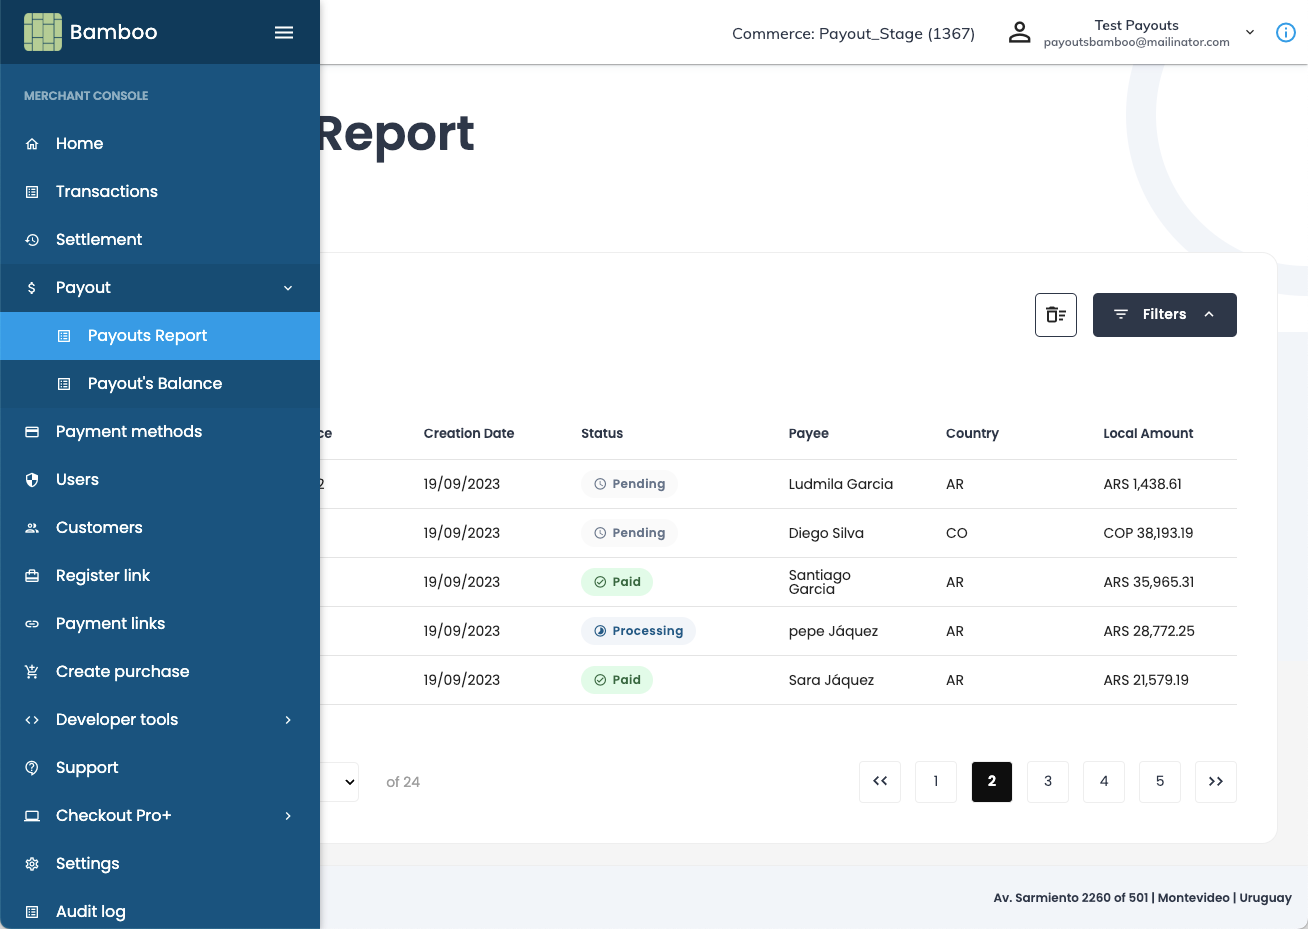
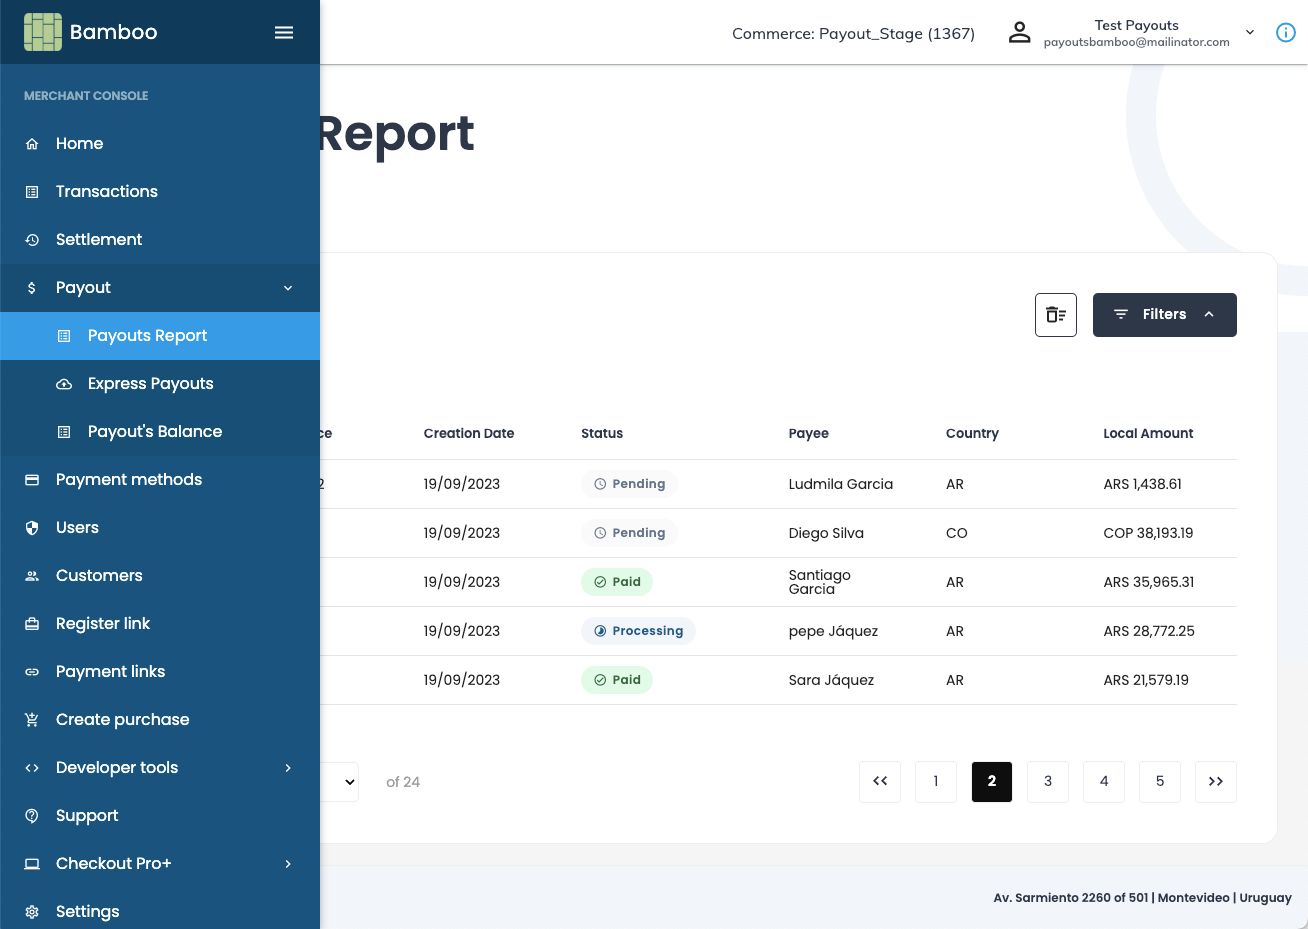
Express Payouts feature

diff --git a/themes/docsy/static/js/scrollspy.js b/themes/docsy/static/js/scrollspy.js
@@ -16,7 +16,11 @@ function createObserver() {
             if (entry.intersectionRatio > 0) {
                 document.querySelector(`nav li a[href="#${id}"]`).classList.add('activeToc');
             } else {
-                document.querySelector(`nav li a[href="#${id}"]`).classList.remove('activeToc');
+                if (document.querySelector(`nav li a[href="#${id}"]`) !== null) {
+                    document.querySelector(`nav li a[href="#${id}"]`).classList.remove('activeToc');
+                } else {
+                    true;
+                }
             }
         });
         

diff --git a/themes/docsy/static/js/scrolltotoc.js b/themes/docsy/static/js/scrolltotoc.js
@@ -1,9 +1,9 @@
 var strLocation = window.location.pathname.replace('/public', '');
 var strsplit = strLocation.split('/');
-if (strsplit[1].length == 2) {
+/*if (strsplit[1].length == 2) {
     var folder = '/' + strsplit[1];
     strLocation = strLocation.replace(folder, '');
-}
+}*/
 
 var element = document.getElementById(strLocation);
 element.scrollIntoView({ behavior: 'smooth', block: 'nearest', inline: 'start' })

diff --git a/content/en/Payouts/Payouts Merchant console/Express.md b/content/en/Payouts/Payouts Merchant console/Express.md
@@ -1,0 +1,13 @@
+---
+title: "Express Payouts"
+linkTitle: "Express Payouts"
+date: 2023-06-30T08:16:09-05:00
+type: docs
+Description: >
+  With _**Express Payouts**_, you can effortlessly initiate mass Payouts by simply uploading an Excel file containing your payout requests. This streamlined process allows you to efficiently send multiple payments with ease and accuracy.
+weight: 30
+---
+
+To navigate to the Express Payouts feature, open your Merchant console and expand ***Payout***, then ***Express Payouts***.
+
+![PrintScreen](/assets/Payouts/Payouts13_en.png)

diff --git a/content/en/Payouts/Payouts Merchant console/Balances.md b/content/en/Payouts/Payouts Merchant console/Balances.md
@@ -5,7 +5,7 @@ date: 2023-06-30T08:16:09-05:00
 type: docs
 Description: >
   The Payout balance shows a report on how much money you have to process Payout transactions. For introductory terms about this feature, refer to [Payout Balances]({{< ref "Payout-Balances.md" >}}).
-weight: 20
+weight: 30
 ---
 
 To navigate the Payout Balance report, open your Merchant console and expand ***Payout***, then ***Payouts Balance***.

diff --git a/content/en/Payouts/Payouts Merchant console/_index.md b/content/en/Payouts/Payouts Merchant console/_index.md
@@ -12,4 +12,4 @@ To navigate the Payout options, open your Merchant console and expand the ***Pay
 
 ![PrintScreen](/assets/Payouts/Payouts8_en.png)
 
-The Payouts console has two options: _**Payout Reports**_ and _**Payouts Balance**_; find the related information below.
+The Payouts console has two options: _**Payout Reports**_, _**Express Payouts**_ and _**Payouts Balance**_; find the related information below.
